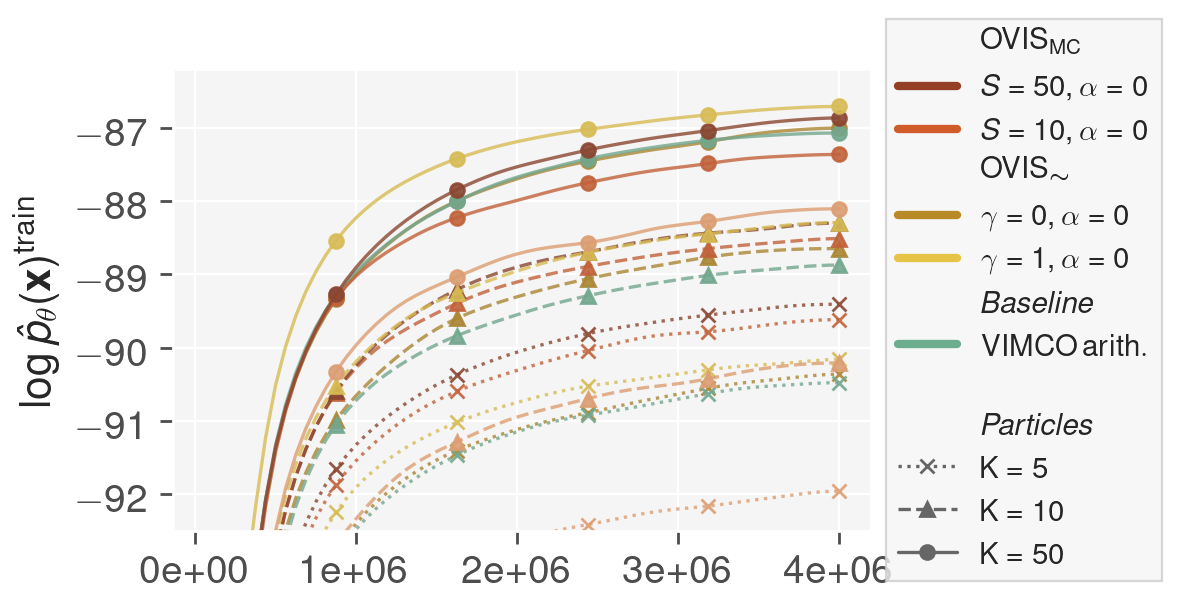
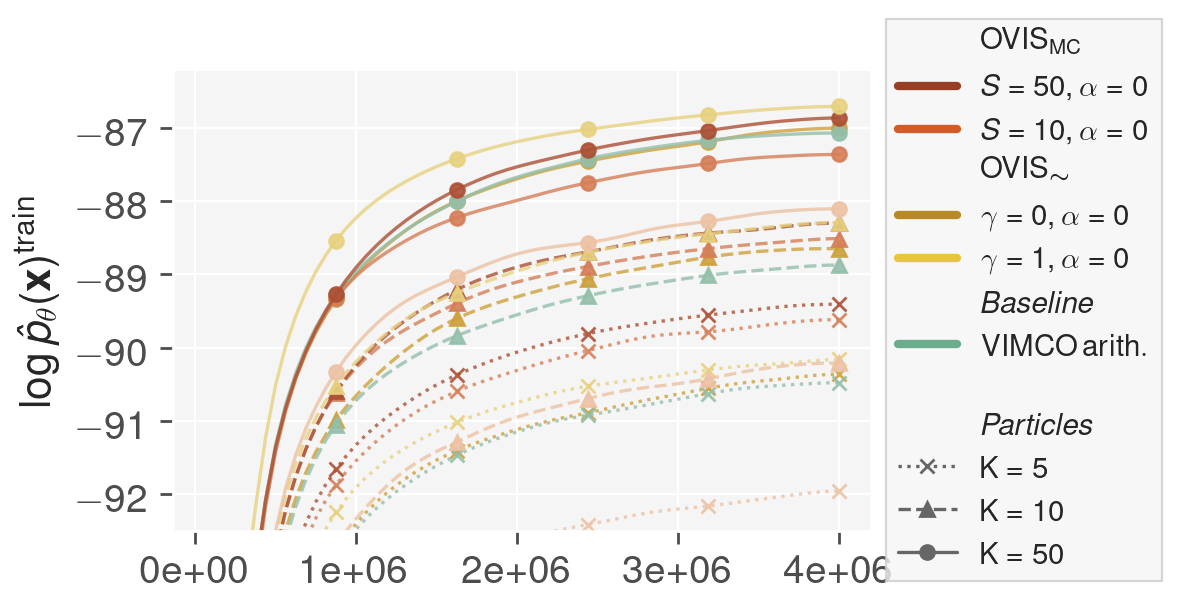
fig. 3: lighten colors

diff --git a/report_figure3.py b/report_figure3.py
@@ -8,7 +8,7 @@ from matplotlib.lines import Line2D
 
 from ovis.reporting.style import *
 from ovis.reporting.style import set_matplotlib_style
-from ovis.reporting.utils import smooth, update_labels
+from ovis.reporting.utils import smooth, update_labels, lighten
 from ovis.utils.utils import Header
 
 parser = argparse.ArgumentParser()
@@ -23,6 +23,7 @@ parser.add_argument('--metric', default='train:loss/L_k', help='metric to displa
 
 # plot config
 parser.add_argument('--desaturate', default=0.9, type=float, help='desaturate hue')
+parser.add_argument('--lighten', default=1.2, type=float, help='lighten hue')
 parser.add_argument('--alpha', default=0.8, type=float, help='opacity')
 parser.add_argument('--linewidth', default=1.2, type=float, help='line width')
 opt = parser.parse_args()
@@ -56,7 +57,7 @@ ax = plt.gca()
 hue_order = list(filtered_data['estimator'].unique())
 palette = [ESTIMATOR_STYLE[h_key]['color'] for h_key in hue_order]
 palette = [sns.desaturate(c, opt.desaturate) for c in palette]
-palette = [sns.desaturate(c, opt.desaturate) for c in palette]
+palette = [lighten(c, opt.lighten) for c in palette]
 
 # linestyles & markers
 style_order = list(sorted(filtered_data[opt.style_key].unique()))

diff --git a/ovis/reporting/utils.py b/ovis/reporting/utils.py
@@ -1,3 +1,6 @@
+import colorsys
+
+import matplotlib.colors as mplcol
 import numpy as np
 
 from .style import ESTIMATOR_ORDER
@@ -144,3 +147,19 @@ def update_labels(axes, metric_dict, agg_fns=dict()):
                     label = f"{agg_label}{label}"
 
             ax.set_ylabel(label)
+
+
+def lighten(color, prop):
+    # Get rgb tuple rep
+    rgb = mplcol.colorConverter.to_rgb(color)
+
+    # Convert to hls
+    h, l, s = colorsys.rgb_to_hls(*rgb)
+
+    # Desaturate the saturation channel
+    l *= prop
+
+    # Convert back to rgb
+    new_color = colorsys.hls_to_rgb(h, l, s)
+
+    return new_color
